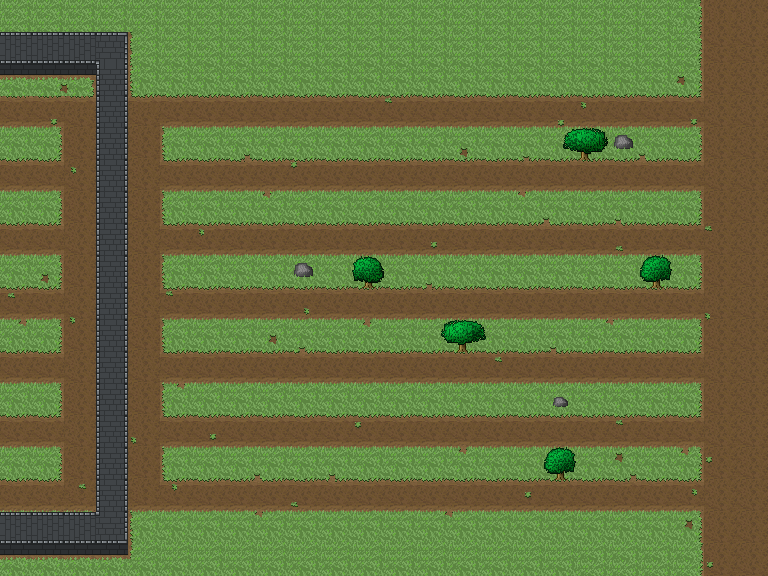
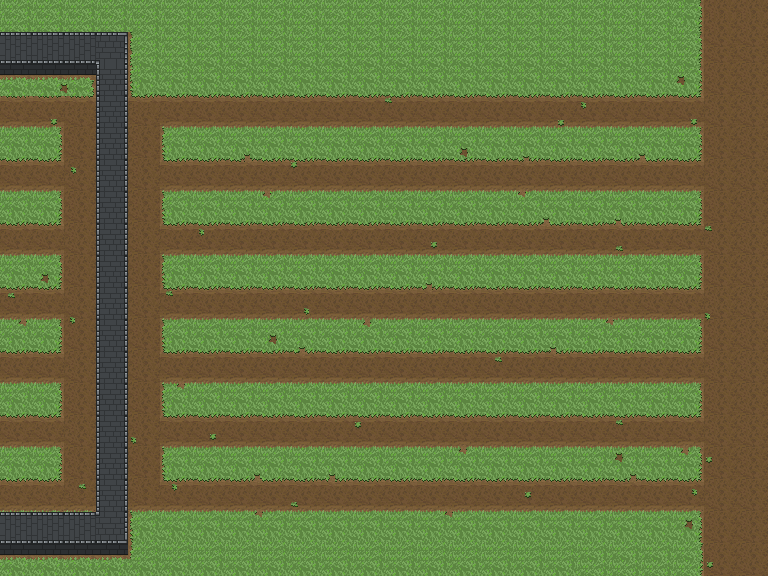
Fixed trees and changed speeds

diff --git a/scripts/Main.js b/scripts/Main.js
@@ -21,8 +21,15 @@ function setCurrentLevel(name) {
 
 
 function preload() {
+
+
+
     game.load.image('grassTile', 'assets/GrassTile.png');
     game.load.image('level_01', 'assets/Level1.png');
+    game.load.image('level_01_tree_tops', 'assets/Tree_Tops.png');
+    game.load.image('level_01_tree_bottoms', 'assets/Tree_Bottoms.png');
+
+    game.load.image('level_01_rocks', 'assets/Rocks.png');
 
     game.load.spritesheet('KoboldRunner_Walk', 'assets/KoboldRunner_Walk.png', 81, 81);
     game.load.spritesheet('KoboldSap_Walk', 'assets/KoboldSap_Walk.png', 81, 81);
@@ -31,8 +38,6 @@ function preload() {
     game.load.spritesheet('MossGolem_Walk', 'assets/MossGolem_Walk.png', 201, 201);
     game.load.spritesheet('RockQuarry_Walk', 'assets/RockQuarry_Walk.png', 201, 201);
 
-    game.pontus = {};
-    game.pontus.entityGroup = game.add.group();
 
     Resources.Load(game);
 }
@@ -40,8 +45,8 @@ function preload() {
 function create() {
     
     
-    addLevel(new Level(game, "level_01"));
-    
+    addLevel(this.level_01 = new Level(game, "level_01"));
+
 
     entityParser = new GameEntityParser();
     entityParser.BuildPlayerEntityMenu(game);
@@ -51,6 +56,8 @@ function create() {
     game.add.sprite(0, 0, overlay);
 
     setCurrentLevel("level_01");
+
+
 
 }
 
@@ -74,7 +81,7 @@ function update() {
 
             var type = PlayerUnits.Goblin;
             var lane = Math.round(Math.random() * (currentLevel.lanes.length - 1));
-            var x = 800;
+            var x = game.world.width;
             var y = currentLevel.lanes[lane - 1] + currentLevel.laneOffset;
            
             var r = currentlySelected; //Math.round(Math.random() * 5);
@@ -101,14 +108,18 @@ function update() {
             }
            
 
-            currentLevel.addEntity(new Entity(x, y, type, game));
-            game.world.bringToTop(game.pontus.entityGroup);
+            currentLevel.addEntity(new Entity(x, y, type, game, lane));
+
+            game.world.bringToTop(currentLevel.tree_tops);
 
             timer = 0;
         }
 
         currentLevel.update();
     }
+
+
+
 }
 
 function DrawRectangle(x, y, w, h){

diff --git a/config/PlayerUnits.js b/config/PlayerUnits.js
@@ -1,5 +1,6 @@
 PlayerUnits = {
     KoboldRunner : {
+        type: "monster",
         Name: "KoboldRunner",
         Cost: 10,
         Size: GameTypes.Sizes.Small,
@@ -16,6 +17,7 @@ PlayerUnits = {
         yOffset: 0
     },
     KoboldSap : {
+        type: "monster",
         Name: "KoboldSap",
         Cost: 10,
         Size: GameTypes.Sizes.Small,
@@ -32,6 +34,7 @@ PlayerUnits = {
         yOffset: 0
     },
     Goblin : {
+        type: "monster",
         Name: "Goblin",
         Cost: 10,
         Size: GameTypes.Sizes.Small,
@@ -48,6 +51,7 @@ PlayerUnits = {
         yOffset: 0
     },
     OrcSpearThrower : {
+        type: "monster",
         Name: "OrcSpearThrower",
         Cost: 10,
         Size: GameTypes.Sizes.Small,
@@ -64,6 +68,7 @@ PlayerUnits = {
         yOffset: 0
     },
     MossGolem : {
+        type: "monster",
         Name: "MossGolem",
         Cost: 10,
         Size: GameTypes.Sizes.Medium,
@@ -77,9 +82,10 @@ PlayerUnits = {
         width: 201,
         height: 201,
         xOffset: 0,
-        yOffset: -40
+        yOffset: -43
     },
     RockQuarry : {
+        type: "monster",
         Name: "RockQuarry",
         Cost: 10,
         Size: GameTypes.Sizes.Large,

diff --git a/scripts/Level.js b/scripts/Level.js
@@ -32,6 +32,9 @@ function Level(game, name) {
     /* Builds the level with the right background image and settings. */
     this.build = function() {
         this.background = this.game.add.sprite(0, 0, this.name);
+        this.tree_bottoms = this.game.add.sprite(128 + 48, 64, this.name + '_tree_bottoms');
+        this.tree_tops = this.game.add.sprite(128 + 48, 32 + 8 + 5, this.name + '_tree_tops');
+
     }
     
     /* Updates all of the entities. */
@@ -45,10 +48,15 @@ function Level(game, name) {
 
             entity.update();
 
-            if (entity.x < 100) {
-                entity.sprite.kill();
-                this.entities.splice(i, 1);
-            }
+            //this.game.debug.spriteBounds(entity.sprite);
+
+            if (entity.type.type == "monster")
+                if (entity.x < 100) {
+                    entity.sprite.kill();
+                    this.entities.splice(i, 1);
+                }
+
+            
 
         }
     }

diff --git a/scripts/Entity.js b/scripts/Entity.js
@@ -1,7 +1,7 @@
 
 /* This will be entities that are in-game. */
 /* The 'type' is an object from PlayerUnits. */
-function Entity(x, y, type, game) {
+function Entity(x, y, type, game, lane) {
 	
 	this.width = type.width;
 	this.height = type.height;
@@ -14,14 +14,16 @@ function Entity(x, y, type, game) {
 
 	if (type.Name == "MossGolem")
 		animFPS = 8;
+	if (type.Name == "OrcSpearThrower")
+		animFPS = 24;
 
-	this.sprite = game.add.sprite(this.x, this.y, type.Name + '_Walk');
-	this.walk = this.sprite.animations.add('walk');
-	this.sprite.animations.play('walk', animFPS, true);
-	game.pontus.entityGroup.add(this.sprite);
+	if (this.sprite == null) {
+		this.sprite = game.add.sprite(this.x, this.y, type.Name + '_Walk');
+		this.walk = this.sprite.animations.add('walk');
+		this.sprite.animations.play('walk', animFPS, true);
+	}
 
-	//this.sprite = game.add.sprite(this.x, this.y, type.Name, "Walk_000.png");
-	
+
 
 	
 

diff --git a/scripts/GameTypes.js b/scripts/GameTypes.js
@@ -6,10 +6,10 @@ GameTypes.Faction = {
 }
 
 GameTypes.Speeds = {
-    None:-1,
-    Slow:0.5,
-    Medium:1,
-    Fast:1.8
+    None: 0,
+    Slow: 0.5,
+    Medium: 1,
+    Fast: 1.8
 }
 GameTypes.ArmorTypes = {
     None:-1,
